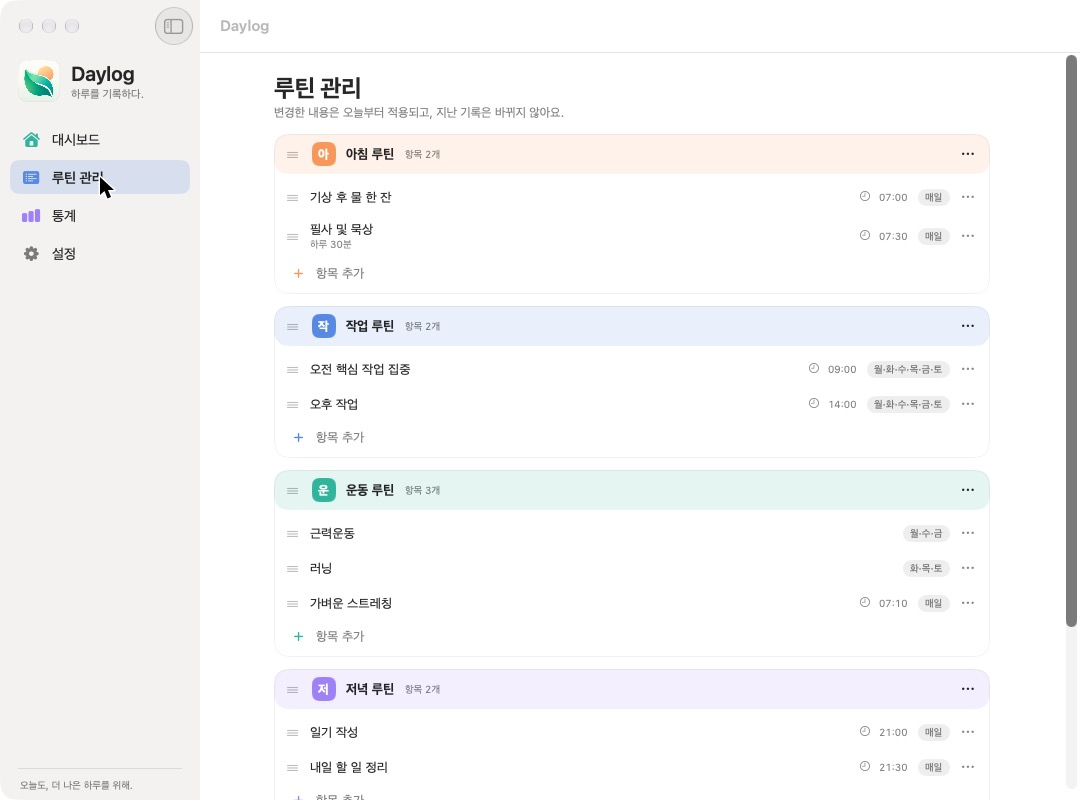
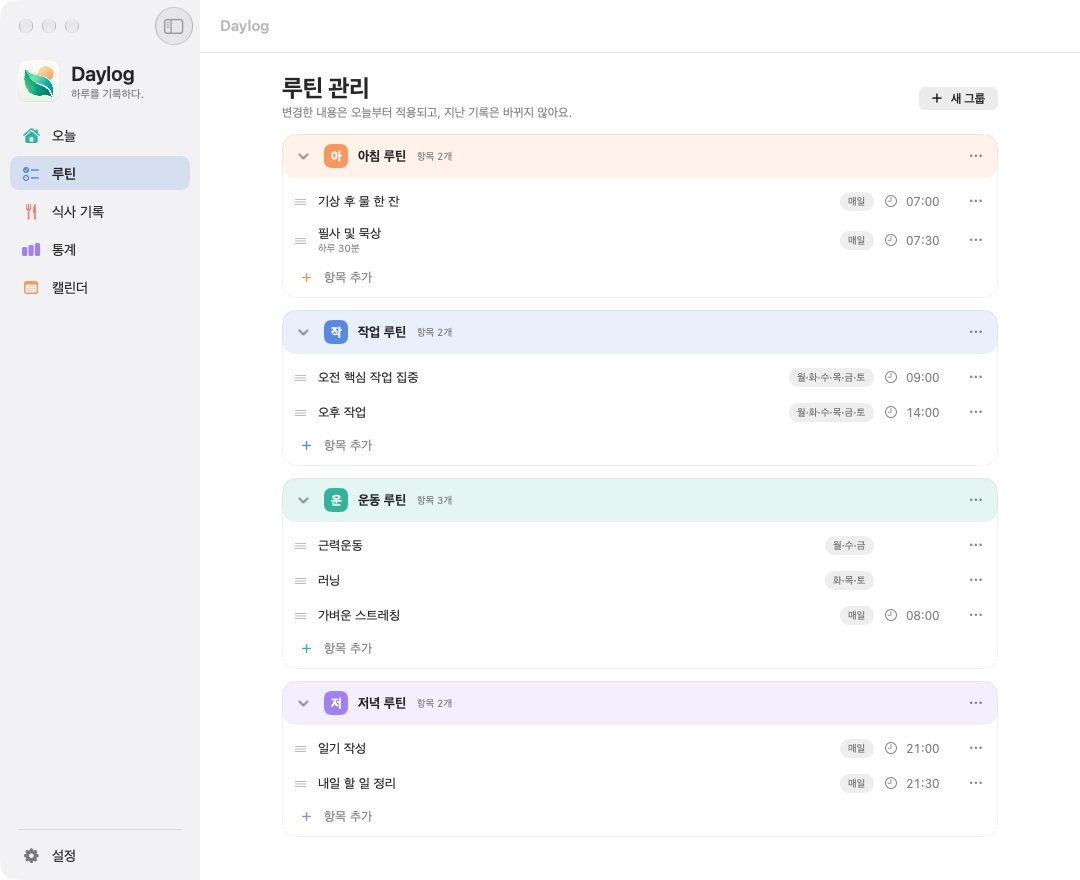
docs: rewrite README for 1.5.0 with fresh screenshots
- 기능 소개를 표로 정리하고 대시보드 편집·휴가 모드·가져오기/내보내기를 추가
- 자주 묻는 것에서 질문이 아닌 설명 문단을 걷어냄
- 개발 문서 링크를 개발자 섹션 안으로 옮김
- 스크린샷을 2열 대시보드 기준으로 다시 찍고 캘린더 화면 추가(예시 데이터)

diff --git a/docs/PROGRESS.md b/docs/PROGRESS.md
@@ -190,7 +190,7 @@
 - 메뉴 막대 아이콘의 밝은 메뉴 막대·Retina 화면 모습(템플릿 이미지라 색은 시스템이 맞춘다).
 - 같은 열 안에서의 끌어 놓기 순서 변경, 열 맨 아래 빈 자리에 놓기, ⋯ 메뉴의 위/아래 이동·숨기기(메뉴에 항목이 뜨는 것까지만 봄), 끄는 도중의 자리 미리보기 모습.
 - iPad에서의 터치 드래그, iPad 가로 2열, 휴가 설정 후 새 달성 현황 카드의 휴가 표시.
-- README의 스크린샷은 예전 화면이다.
+- README를 새로 쓰고 스크린샷을 2열 대시보드 기준으로 다시 찍었다(2026-10-12, 검증용 앱의 예시 데이터). 메뉴 막대 팝오버와 대시보드 편집 화면은 스크린샷에 없다.
 
 ## 다음 작업
 
